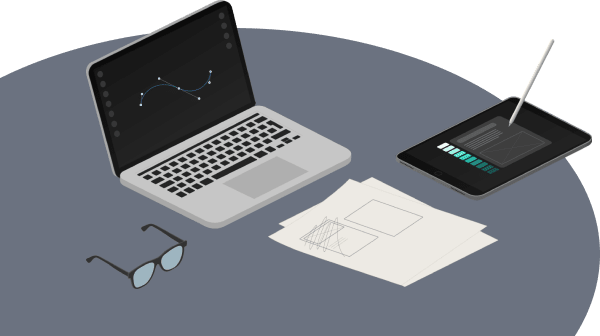
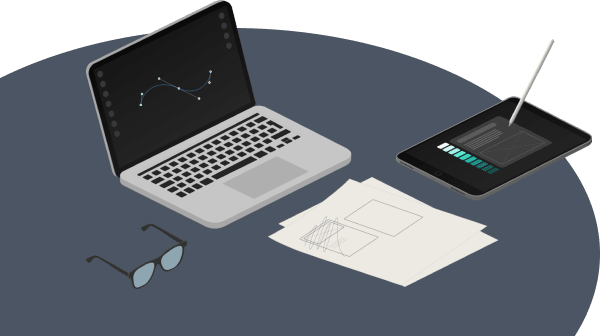
Darken dark mode

diff --git a/components/elements/submit.js b/components/elements/submit.js
@@ -6,15 +6,15 @@ export const Submit = ({loading, success, error}) => {
     <button className={`flex-shrink-0 flex justify-center items-center h-8 w-8 rounded-lg 
       ${error ? 'bg-red-500 dark:bg-red-400' : 'bg-teal-600 dark:bg-teal-500'}
       focus:outline-none focus:ring-2 focus:ring-teal-600 dark:focus:ring-teal-500 
-      focus:ring-offset-2 focus:ring-offset-warm-gray-200 dark:focus:ring-offset-cool-gray-600`}
+      focus:ring-offset-2 focus:ring-offset-warm-gray-200 dark:focus:ring-offset-cool-gray-700`}
       type="submit"
       tabIndex="0"
       disabled={loading || error || success}
     >
-      {loading ? <FontAwesomeIcon icon={faSpinnerThird} className="animate-spin text-warm-gray-200 dark:text-cool-gray-600 text-lg"/>
-      : success ? <FontAwesomeIcon icon={faCheck} className="text-warm-gray-200 dark:text-cool-gray-600 text-lg"/>
-      : error ? <FontAwesomeIcon icon={faTimes} className="text-warm-gray-200 dark:text-cool-gray-600 text-lg"/>
-      : <FontAwesomeIcon icon={faLongArrowRight} className="text-warm-gray-200 dark:text-cool-gray-600 text-lg"/>}
+      {loading ? <FontAwesomeIcon icon={faSpinnerThird} className="animate-spin text-warm-gray-200 dark:text-cool-gray-700 text-lg"/>
+      : success ? <FontAwesomeIcon icon={faCheck} className="text-warm-gray-200 dark:text-cool-gray-700 text-lg"/>
+      : error ? <FontAwesomeIcon icon={faTimes} className="text-warm-gray-200 dark:text-cool-gray-700 text-lg"/>
+      : <FontAwesomeIcon icon={faLongArrowRight} className="text-warm-gray-200 dark:text-cool-gray-700 text-lg"/>}
     </button>
   )
 }

diff --git a/components/layout/mobile-navigation.js b/components/layout/mobile-navigation.js
@@ -37,7 +37,7 @@ export const MobileNavigation = ({className}) => {
   return (
     <motion.nav className={className} initial={false} animate={isOpen ? "open" : "closed"}>
       <motion.div className="fixed z-10 w-screen h-screen left-0 top-0 space-y-16
-        pt-8 px-8 bg-warm-gray-300 dark:bg-cool-gray-700" 
+        pt-8 px-8 bg-warm-gray-300 dark:bg-cool-gray-800" 
         variants={bgVariants}
       >
         <motion.div variants={childVariants}>
@@ -58,9 +58,9 @@ export const MobileNavigation = ({className}) => {
         </motion.div>
       </motion.div>
       <button className="fixed z-20 bottom-8 left-1/2 transform -translate-x-1/2 flex justify-center items-center h-12 w-12 rounded-xl 
-        bg-teal-600 dark:bg-teal-500 shadow dark:shadow-lg text-warm-gray-300 dark:text-cool-gray-700
+        bg-teal-600 dark:bg-teal-500 shadow dark:shadow-lg text-warm-gray-300 dark:text-cool-gray-800
         focus:outline-none focus:ring-2 focus:ring-teal-600 dark:focus:ring-teal-500 
-        focus:ring-offset-2 focus:ring-offset-warm-gray-200 dark:focus:ring-offset-cool-gray-600
+        focus:ring-offset-2 focus:ring-offset-warm-gray-200 dark:focus:ring-offset-cool-gray-800
         active:bg-teal-700 dark:active:bg-teal-600"
         onClick={toggleNav}
       >

diff --git a/components/elements/input.js b/components/elements/input.js
@@ -2,11 +2,11 @@ import {forwardRef} from 'react'
 
 export const Input = forwardRef(({id, type, placeholder, error, onBlur}, ref) => {
   return (
-    <input className={`px-3 h-8 w-full rounded-lg border-none border-warm-gray-100 dark:border-cool-gray-500 bg-warm-gray-100 dark:bg-cool-gray-500
-      placeholder-gray-500 dark:placeholder-cool-gray-300 text-gray-700 dark:text-cool-gray-100
+    <input className={`px-3 h-8 w-full rounded-lg border-none border-warm-gray-100 dark:border-cool-gray-500 bg-warm-gray-100 dark:bg-cool-gray-600
+      placeholder-gray-500 dark:placeholder-cool-gray-400 text-gray-700 dark:text-cool-gray-100
       focus:outline-none focus:border-none focus:ring-2 focus:ring-teal-600 dark:focus:ring-teal-500
-      focus:ring-offset-2 focus:ring-offset-warm-gray-200 dark:focus:ring-offset-cool-gray-600
-      ${error && 'ring-2 ring-red-500 dark:ring-red-400 ring-offset-2 ring-offset-warm-gray-200 dark:ring-offset-cool-gray-600'}`}
+      focus:ring-offset-2 focus:ring-offset-warm-gray-200 dark:focus:ring-offset-cool-gray-700
+      ${error && 'ring-2 ring-red-500 dark:ring-red-400 ring-offset-2 ring-offset-warm-gray-200 dark:ring-offset-cool-gray-700'}`}
       id={id}
       name={id}
       type={type}

diff --git a/components/elements/checkbox.js b/components/elements/checkbox.js
@@ -3,11 +3,11 @@ import {forwardRef} from 'react'
 export const Checkbox = forwardRef(({id, error, onBlur, children, className}, ref) => {
   return (
     <div className={`flex items-center space-x-2 ${className}`}>
-      <input className={`h-4 w-4 rounded-md border-none bg-warm-gray-100 dark:bg-cool-gray-500
+      <input className={`h-4 w-4 rounded-md border-none bg-warm-gray-100 dark:bg-cool-gray-600
         text-teal-600 dark:text-teal-500
         focus:outline-none focus:ring-2 focus:ring-teal-600 dark:focus:ring-teal-500
-        focus:ring-offset-2 focus:ring-offset-warm-gray-200 dark:focus:ring-offset-cool-gray-600
-        ${error && 'ring-2 ring-red-500 dark:ring-red-400 ring-offset-2 ring-offset-warm-gray-200 dark:ring-offset-cool-gray-600'}`}
+        focus:ring-offset-2 focus:ring-offset-warm-gray-200 dark:focus:ring-offset-cool-gray-700
+        ${error && 'ring-2 ring-red-500 dark:ring-red-400 ring-offset-2 ring-offset-warm-gray-200 dark:ring-offset-cool-gray-700'}`}
         type="checkbox" 
         id={id} name={id}
         onBlur={onBlur}

diff --git a/components/layout/card.js b/components/layout/card.js
@@ -13,8 +13,8 @@ export const Card = ({className, children}) => {
   }
 
   return (
-    <motion.div className={`group bg-warm-gray-200 dark:bg-cool-gray-600 rounded-3xl 
-      border-2 border-warm-gray-100 dark:border-cool-gray-500
+    <motion.div className={`group bg-warm-gray-200 dark:bg-cool-gray-700 rounded-3xl 
+      border-2 border-warm-gray-100 dark:border-cool-gray-600
       transition-all duration-300 ease-in-out
       hover:border-teal-600 dark:hover:border-teal-500 hover:shadow dark:hover:shadow-lg
       leading-snug ${className}`}

diff --git a/styles/globals.css b/styles/globals.css
@@ -19,7 +19,7 @@
     @apply bg-warm-gray-300 text-gray-600;
   }
 	html.dark {
-    @apply bg-cool-gray-700 text-cool-gray-300;
+    @apply bg-cool-gray-800 text-cool-gray-300;
   }
 	body.nav-opened {
     @apply fixed w-full h-full overflow-hidden;
